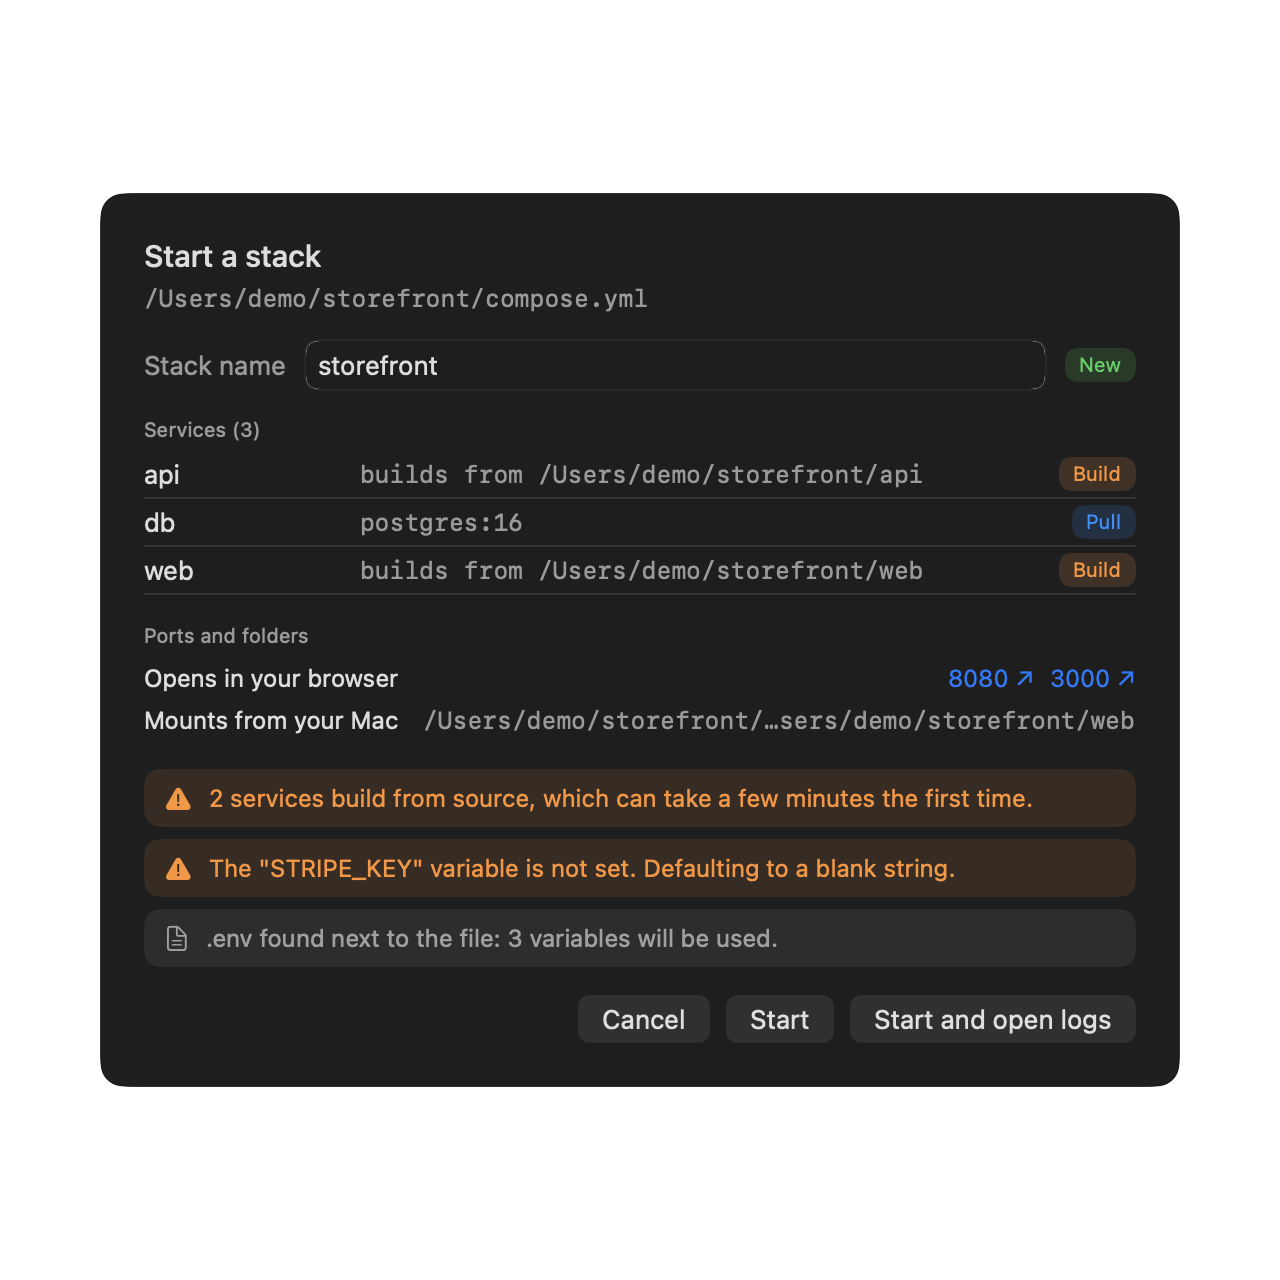
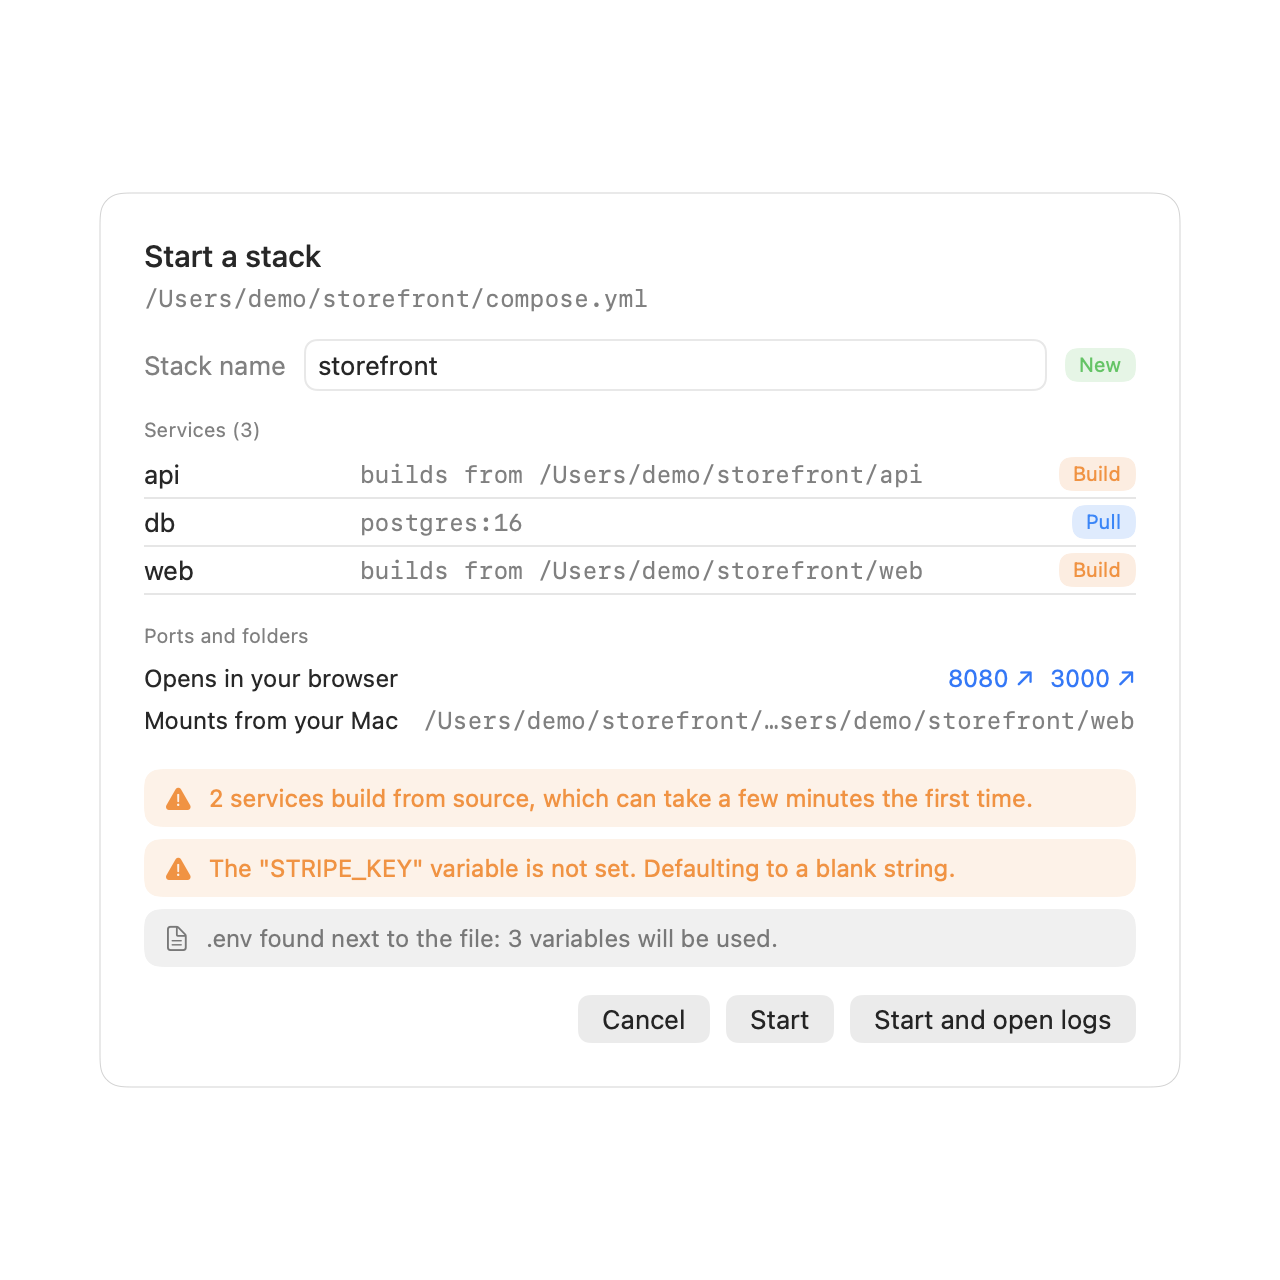
Keep the landing page's screenshots; put the dark set in docs/screenshots/dark
The landing page uses docs/screenshots (and dashboard-dark.png for its dark
mode and share preview), so those stay as they were. The README and the
portfolio use the new dark folder, and the generator writes both sets.

diff --git a/Sources/ColimaUI/Launch.swift b/Sources/ColimaUI/Launch.swift
@@ -137,40 +137,49 @@ enum Launch {
     /// `--screenshots <dir>`: writes the README images from a built-in sample setup, never from real containers.
     @MainActor
     static func screenshots(to dir: String) async {
-        try? FileManager.default.createDirectory(atPath: dir, withIntermediateDirectories: true)
         let store = ColimaStore(runner: DemoRunner(), prerequisites: { .ready })
         let compose = ComposeDropModel(store: store)
         for _ in 0..<8 { await store.refresh() } // a few samples so the sparklines have a shape
-
-        // The README and the portfolio use dark screenshots.
-        func write(_ name: String, _ root: AnyView, size: NSSize, dark: Bool = true, settle: TimeInterval = 1.0) {
-            guard let png = render(root, size: size, dark: dark, settle: settle) else { return }
-            try? png.write(to: URL(fileURLWithPath: "\(dir)/\(name).png"))
-        }
-        let window = NSSize(width: 1200, height: 760)
-
-        write("dashboard", AnyView(ScreenshotWindow(section: .dashboard).environment(store).environment(compose)), size: window)
-        write("containers", AnyView(ScreenshotWindow(section: .containers).environment(store).environment(compose)), size: window)
-
-        if let web = store.containers.first(where: { $0.name == "shop-api-1" }) {
-            var seed: [String] = []
-            if let client = store.docker {
-                do { for try await line in client.logs(id: web.id, tail: 50, follow: false) { seed.append(line) } } catch {}
-            }
-            ScreenshotSeed.logLines = seed
-            store.requestedSelection = "container:\(web.id)"
-            write("container-logs", AnyView(ScreenshotWindow(section: .containers).environment(store).environment(compose)), size: window, settle: 1.5)
-            store.requestedSelection = nil
-            ScreenshotSeed.logLines = nil
-        }
-        write("images", AnyView(ScreenshotWindow(section: .images).environment(store).environment(compose)), size: window)
-        write("profiles", AnyView(ScreenshotWindow(section: .profiles).environment(store).environment(compose)), size: window)
-        write("compose-review", AnyView(composeSample("compose-review", store: store)), size: NSSize(width: 640, height: 640))
-        write("menu-bar", AnyView(ScreenshotPopover().environment(store).environment(compose)), size: NSSize(width: 372, height: 470))
-
         let empty = ColimaStore(runner: DemoRunner(), prerequisites: { Prerequisites(missing: ["colima", "docker"], brewAvailable: true) })
         await empty.refresh()
-        write("setup", AnyView(ScreenshotWindow(section: .dashboard, showsSetup: true).environment(empty).environment(ComposeDropModel(store: empty))), size: window)
+        let window = NSSize(width: 1200, height: 760)
+        let fm = FileManager.default
+
+        // Two sets: light in `dir` (the landing page switches between them), and dark in `dir/dark`
+        // (what the README and the portfolio use). The landing page also expects `dashboard-dark.png` in `dir`.
+        for dark in [false, true] {
+            let out = dark ? "\(dir)/dark" : dir
+            try? fm.createDirectory(atPath: out, withIntermediateDirectories: true)
+
+            func write(_ name: String, _ root: AnyView, size: NSSize, settle: TimeInterval = 1.0) {
+                guard let png = render(root, size: size, dark: dark, settle: settle) else { return }
+                try? png.write(to: URL(fileURLWithPath: "\(out)/\(name).png"))
+            }
+
+            write("dashboard", AnyView(ScreenshotWindow(section: .dashboard).environment(store).environment(compose)), size: window)
+            if dark {
+                try? fm.removeItem(atPath: "\(dir)/dashboard-dark.png")
+                try? fm.copyItem(atPath: "\(out)/dashboard.png", toPath: "\(dir)/dashboard-dark.png")
+            }
+            write("containers", AnyView(ScreenshotWindow(section: .containers).environment(store).environment(compose)), size: window)
+
+            if let web = store.containers.first(where: { $0.name == "shop-api-1" }) {
+                var seed: [String] = []
+                if let client = store.docker {
+                    do { for try await line in client.logs(id: web.id, tail: 50, follow: false) { seed.append(line) } } catch {}
+                }
+                ScreenshotSeed.logLines = seed
+                store.requestedSelection = "container:\(web.id)"
+                write("container-logs", AnyView(ScreenshotWindow(section: .containers).environment(store).environment(compose)), size: window, settle: 1.5)
+                store.requestedSelection = nil
+                ScreenshotSeed.logLines = nil
+            }
+            write("images", AnyView(ScreenshotWindow(section: .images).environment(store).environment(compose)), size: window)
+            write("profiles", AnyView(ScreenshotWindow(section: .profiles).environment(store).environment(compose)), size: window)
+            write("compose-review", AnyView(composeSample("compose-review", store: store)), size: NSSize(width: 640, height: 640))
+            write("menu-bar", AnyView(ScreenshotPopover().environment(store).environment(compose)), size: NSSize(width: 372, height: 470))
+            write("setup", AnyView(ScreenshotWindow(section: .dashboard, showsSetup: true).environment(empty).environment(ComposeDropModel(store: empty))), size: window)
+        }
     }
 }
 

diff --git a/README.md b/README.md
@@ -10,7 +10,7 @@
 </p>
 
 <p align="center">
-  <img src="docs/screenshots/dashboard.png" width="860" alt="The ColimaUI dashboard">
+  <img src="docs/screenshots/dark/dashboard.png" width="860" alt="The ColimaUI dashboard">
 </p>
 
 ## Install
@@ -47,7 +47,7 @@ You'll also need Colima and Docker's command-line tool: `brew install colima doc
 You don't have to work it out. ColimaUI checks for `colima` and `docker` when it opens and, if either is missing, shows what's needed with a one-click **Install in Terminal** button. It watches for the install to finish and moves on to the dashboard by itself. No Homebrew either? It tells you and links to [brew.sh](https://brew.sh).
 
 <p align="center">
-  <img src="docs/screenshots/setup.png" width="640" alt="The first-run screen offering to install Colima and Docker">
+  <img src="docs/screenshots/dark/setup.png" width="640" alt="The first-run screen offering to install Colima and Docker">
 </p>
 
 Once the tools are there but no VM exists yet, the dashboard offers **Start Colima**, which creates the default profile for you. The first start downloads a small Linux image and takes a minute or two.
@@ -63,7 +63,7 @@ The page the app opens on. CPU and memory with a short sparkline, how full the V
 ### Containers, grouped by stack
 
 <p align="center">
-  <img src="docs/screenshots/containers.png" width="860" alt="Containers grouped by Compose stack">
+  <img src="docs/screenshots/dark/containers.png" width="860" alt="Containers grouped by Compose stack">
 </p>
 
 - Containers are grouped by **Compose stack**, with the running count and combined CPU and memory on each stack row. Group by image or switch grouping off from the toolbar.
@@ -77,7 +77,7 @@ Drag a `compose.yml` or `docker-compose.yml` (or a folder that has one) onto the
 Nothing runs straight away. A review sheet shows the stack name, each service and whether it will be built or pulled, the ports that open in your browser, the folders it mounts from your Mac, and warnings such as unset variables or privileged containers. Then **Start** runs `docker compose up -d` from the file's folder (so relative paths and `.env` work), with live progress, and **Start and open logs** takes you to the stack when it's up. Drop several files, such as a base file and an override, and they're combined. Drop a stack that already exists and the button reads **Update**.
 
 <p align="center">
-  <img src="docs/screenshots/compose-review.png" width="560" alt="The review sheet shown before a dropped compose file runs">
+  <img src="docs/screenshots/dark/compose-review.png" width="560" alt="The review sheet shown before a dropped compose file runs">
 </p>
 
 If the file is broken, you see Docker's own error before anything starts. Compose has to be installed separately (`brew install docker-compose`); ColimaUI uses either that or the `docker compose` plugin.
@@ -85,7 +85,7 @@ If the file is broken, you see Docker's own error before anything starts. Compos
 ### Logs and details
 
 <p align="center">
-  <img src="docs/screenshots/container-logs.png" width="860" alt="Live container logs">
+  <img src="docs/screenshots/dark/container-logs.png" width="860" alt="Live container logs">
 </p>
 
 Click a container to open it full-width: live logs with filter, follow and timestamps, `docker inspect`, and an info tab. **Shell** opens a session in Terminal. Click a stack instead and you get its services merged into one color-coded log.
@@ -93,8 +93,8 @@ Click a container to open it full-width: live logs with filter, follow and times
 ### Images, volumes, networks and profiles
 
 <p align="center">
-  <img src="docs/screenshots/images.png" width="420" alt="Images list showing which containers use each image">
-  <img src="docs/screenshots/profiles.png" width="420" alt="Colima profile cards">
+  <img src="docs/screenshots/dark/images.png" width="420" alt="Images list showing which containers use each image">
+  <img src="docs/screenshots/dark/profiles.png" width="420" alt="Colima profile cards">
 </p>
 
 - **Images** show which containers use them, and you can pull, delete and prune.
@@ -104,7 +104,7 @@ Click a container to open it full-width: live logs with filter, follow and times
 ### Menu bar
 
 <p align="center">
-  <img src="docs/screenshots/menu-bar.png" width="300" alt="The menu bar popover">
+  <img src="docs/screenshots/dark/menu-bar.png" width="300" alt="The menu bar popover">
 </p>
 
 Control the VM, whole stacks and single containers without opening the window. The llama in the menu bar is dimmed when the VM is stopped and gets a small dot when something needs attention.
